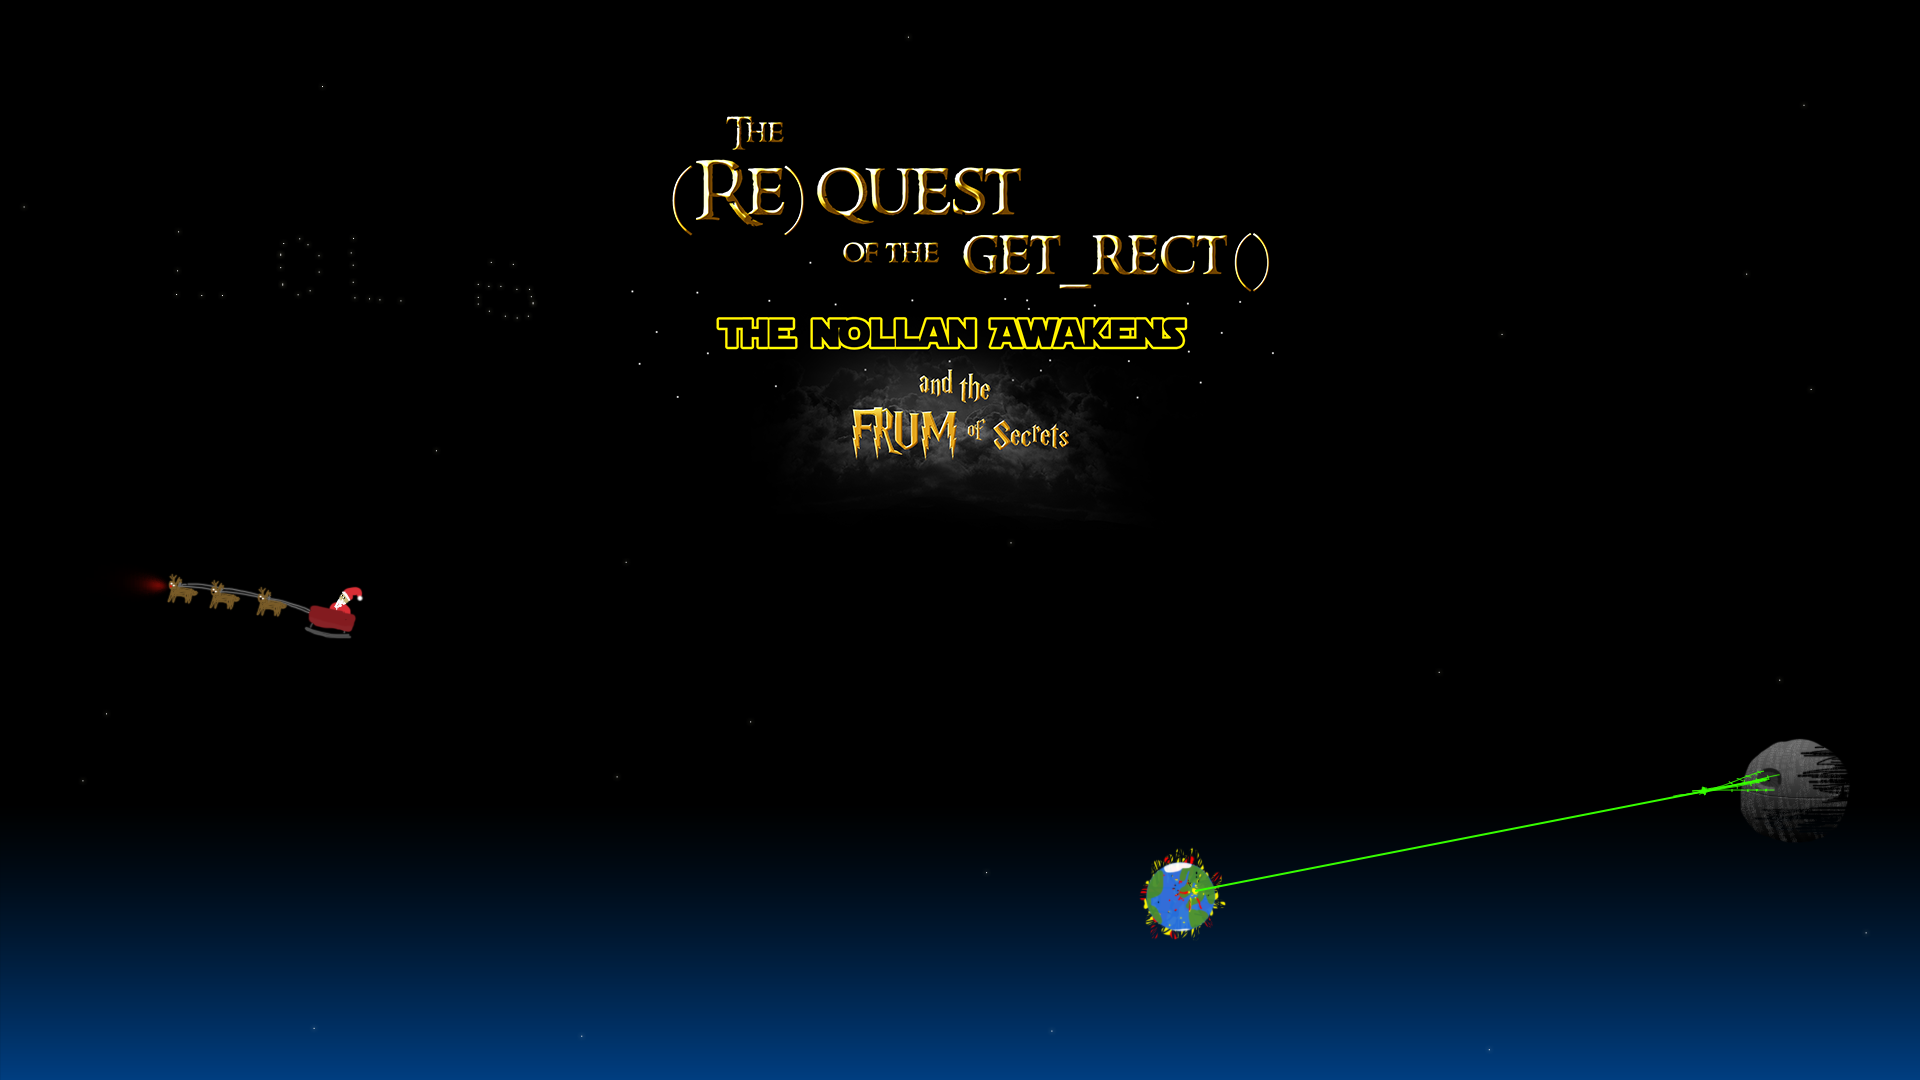
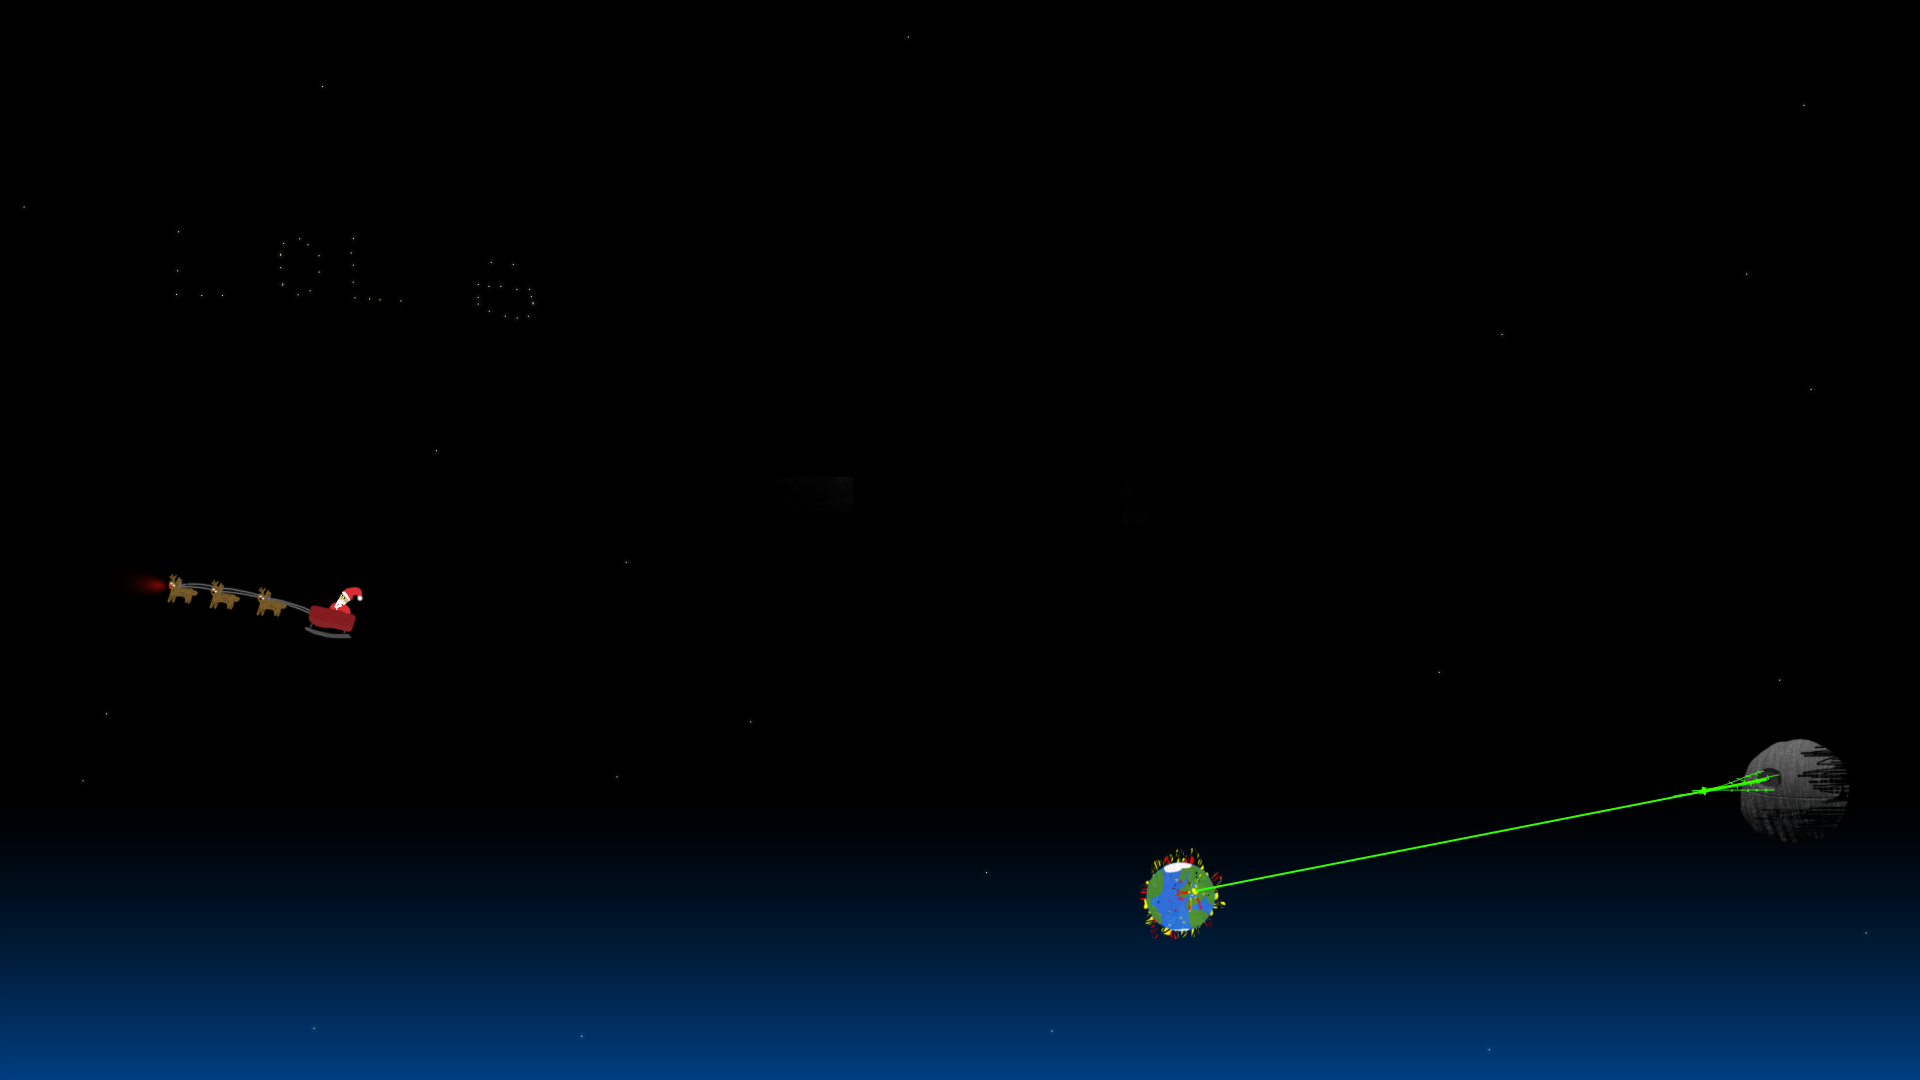
Main menu scales better

Changed region(s): [[0.3438, 0.0917, 0.6562, 0.4583]]

diff --git a/get_rect/core/src/se/chalmers/get_rect/game/window/view/MainMenuView.java b/get_rect/core/src/se/chalmers/get_rect/game/window/view/MainMenuView.java
@@ -1,38 +1,45 @@
 package se.chalmers.get_rect.game.window.view;
 
+import se.chalmers.get_rect.adapters.ICameraAdapter;
 import se.chalmers.get_rect.adapters.IGraphicsAdapter;
-import se.chalmers.get_rect.game.entities.AbstractView;
 import se.chalmers.get_rect.game.entities.ICamera;
 import se.chalmers.get_rect.game.window.model.MainMenu;
 import se.chalmers.get_rect.utilities.Point;
 
-public class MainMenuView implements IWindowView{
+public class MainMenuView implements IWindowView {
+    private static final int OFFSET_Y = -100;
+    private static final int BUTTON_WIDTH = 450;
+    private static final int BUTTON_HEIGHT = 111;
+    private static final int BUTTON_SPACING = 20;
     private static final Point CONTINUE = new Point(0, 0);
     private static final Point NEW_GAME = new Point(0, 1);
     private static final Point EXIT = new Point(0, 2);
     private static final String IMG_PATH = "img/pauseMenu/";
 
-    private ICamera camera;
+    private ICameraAdapter camera;
     private MainMenu model;
 
     public MainMenuView(MainMenu model, ICamera camera) {
-        this.camera = camera;
+        this.camera = camera.getAdapter();
         this.model = model;
     }
 
     @Override
     public void draw(IGraphicsAdapter graphics) {
-
-        Point cameraPosPre = camera.getPosition();
-        Point cameraPos = new Point(-960,cameraPosPre.getY()+cameraPosPre.getY()/5);
+        Point centerPos = camera.getPosition();
+        int centerOffsetX = (int) -camera.getWidth()/2;
+        int centerOffsetY = (int) -camera.getHeight()/2;
 
         //Backgrounds
-        graphics.draw(IMG_PATH + "main_menu.png", cameraPos);
+        graphics.draw(IMG_PATH + "main_menu.png", centerPos.add(centerOffsetX, centerOffsetY), camera.getWidth(), camera.getHeight());
+
+        graphics.draw("img/splash/splash_logo.png", centerPos.add(-300, OFFSET_Y + 50));
 
         //Buttons
         if (model.isContinueAvailable()) {
             graphics.draw(IMG_PATH + "buttons/continue.png", getRealPosition(CONTINUE));
         }
+
         graphics.draw(IMG_PATH + "buttons/new_game.png", getRealPosition(NEW_GAME));
         graphics.draw(IMG_PATH + "buttons/exit.png", getRealPosition(EXIT));
 
@@ -42,16 +49,16 @@ public class MainMenuView implements IWindowView{
     }
 
     private Point getRealPosition(Point gridPosition) {
-        int buttonWidth = 225;
+        Point centerPos = camera.getPosition();
 
         if (gridPosition.equals(CONTINUE))
-            return camera.getPosition().add((int)(camera.getAdapter().getWidth()/2) - buttonWidth, 382);
+            return centerPos.add(-BUTTON_WIDTH/2, OFFSET_Y);
 
         if (gridPosition.equals(NEW_GAME))
-            return camera.getPosition().add((int)(camera.getAdapter().getWidth()/2) - buttonWidth, 241);
+            return centerPos.add(-BUTTON_WIDTH/2, OFFSET_Y - (BUTTON_HEIGHT + BUTTON_SPACING));
 
         if (gridPosition.equals(EXIT))
-            return camera.getPosition().add((int)(camera.getAdapter().getWidth()/2) - buttonWidth, 100);
+            return centerPos.add(-BUTTON_WIDTH/2, OFFSET_Y - (BUTTON_HEIGHT*2 + BUTTON_SPACING*2));
 
         return null;
     }
